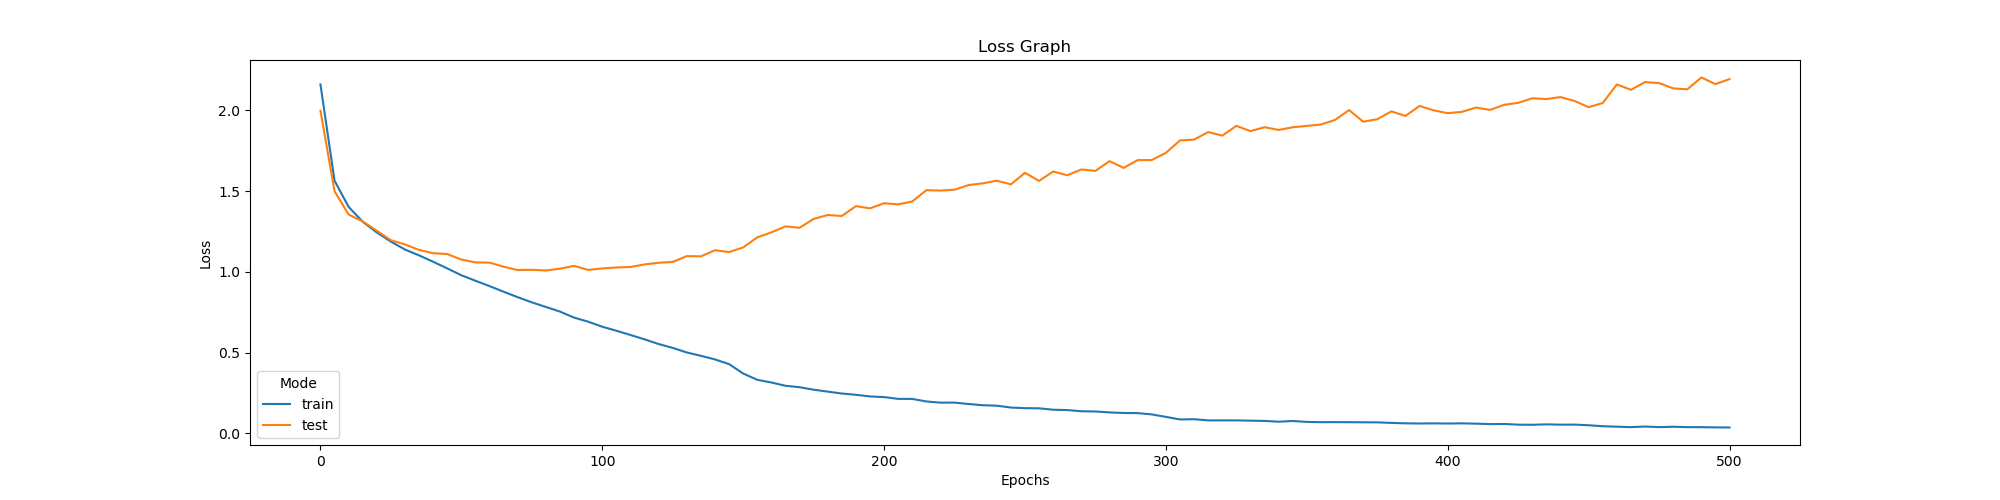
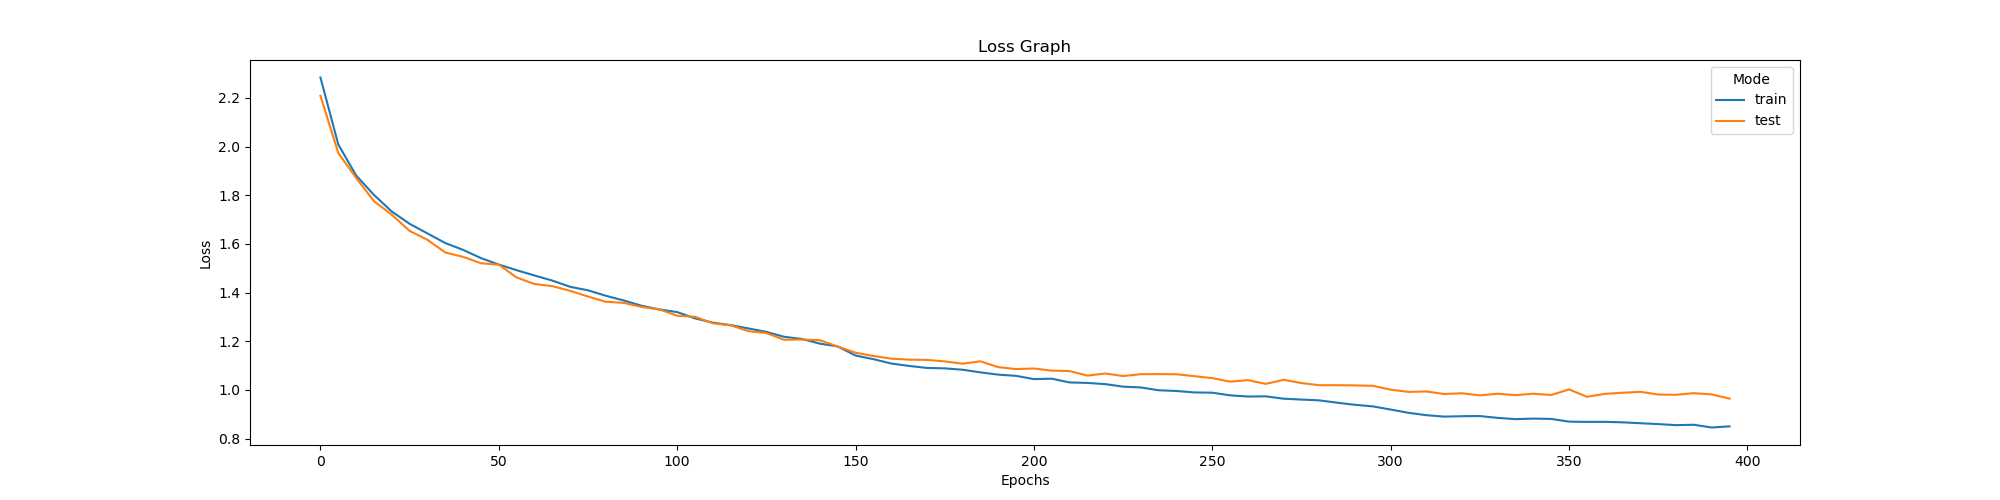
changed cfg

diff --git a/cfg.py b/cfg.py
@@ -15,14 +15,14 @@ SHUFFLE=True
 PATCH_SIZE=8
 NUM_WORKERS=4
 RANDOM_AFFINE_ROTATION_RANGE=(30,70)
-RANDOM_AFFINE_TRANSLATE_RANGE=(0.1, 0.3),
+RANDOM_AFFINE_TRANSLATE_RANGE=(0.1, 0.3)
 RANDOM_AFFINE_SCALE_RANGE=(0.5, 0.75)
 COLOR_JITTER_BRIGHTNESS=0.5
 COLOR_JITTER_HUE=0.3
 
 
 #MODEL CONFIGURATIONS
-TRANSFORMER_NETWORK_DEPTH=6
+TRANSFORMER_NETWORK_DEPTH=8
 NUM_CLASSES=10
 PROJECTION_DIM_KEYS=256
 PROJECTION_DIM_VALUES=256
@@ -32,10 +32,10 @@ FEEDFORWARD_PROJECTION_DIM=512
 FEEDFORWARD_DROPOUT_PROB=0.1
 
 #TRAINING CONFIGURATIONS
-TRAIN_EPOCH=501
+TRAIN_EPOCH=1001
 LEARNING_RATE=0.0001
 SCHEDULER_GAMMA=0.5
-SCHEDULER_STEP_SIZE=150
+SCHEDULER_STEP_SIZE=200
 
 
 
